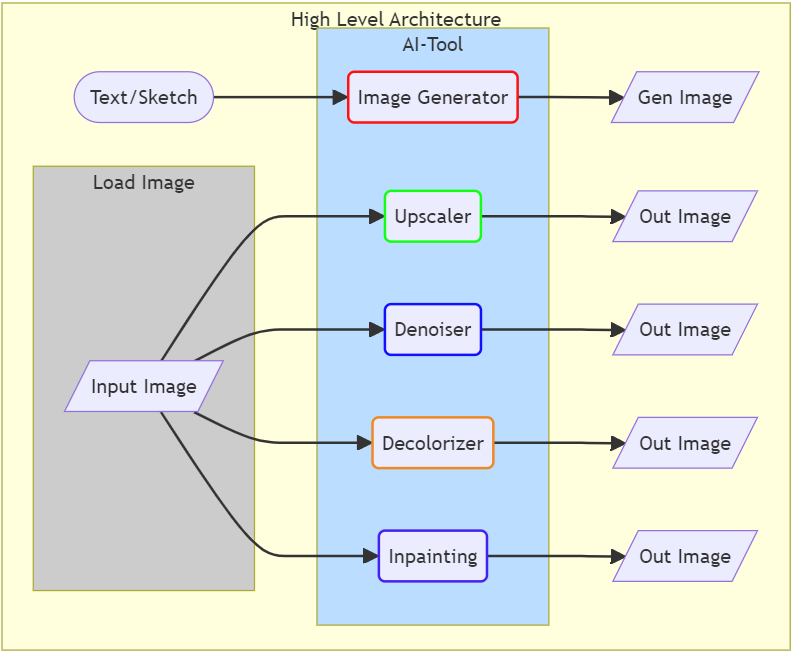
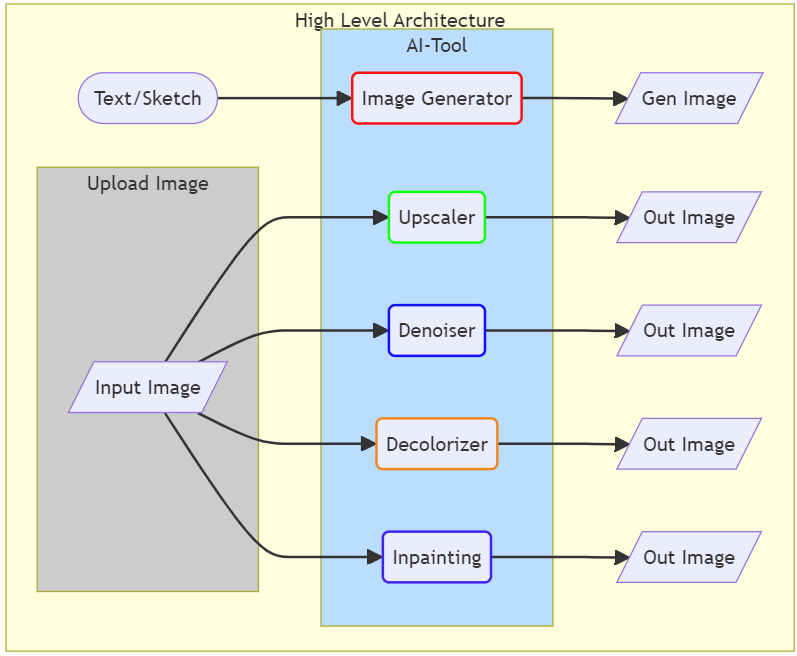
L2-06: update pipeline

diff --git a/L2_06_AI_Assisted_Image_Editing_and_Manipulation/readme.md b/L2_06_AI_Assisted_Image_Editing_and_Manipulation/readme.md
@@ -15,7 +15,7 @@ This is an AI Image Editing and Manipulation tool for Image creation, editing an
 flowchart LR
   subgraph High Level Architecture
     direction LR
-    subgraph Load_Im [Load Image]
+    subgraph Load_Im [Upload Image]
       M[/Input Image/]
     end
     subgraph AI-Tool
